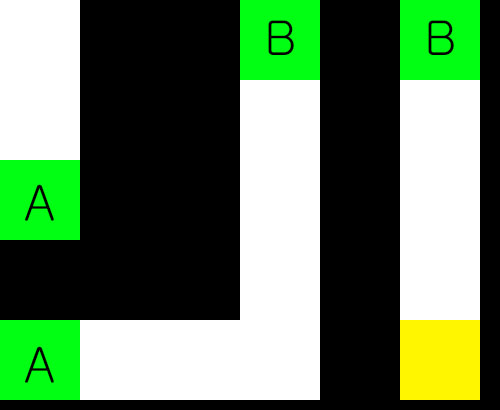
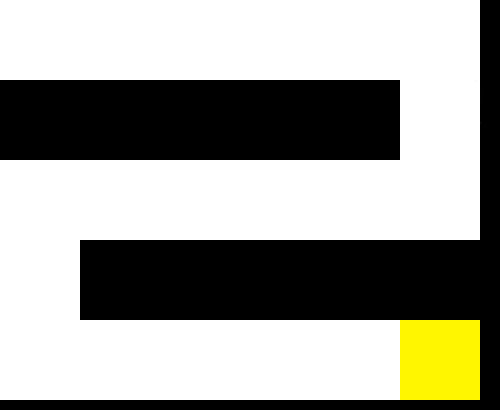
Add map function and map file

diff --git a/SQW.py b/SQW.py
@@ -4,11 +4,12 @@ import Action
 import Map
 pg.init()
 i = 0
+j = 0
 point = 80
 
 
 def run_execution_list():
-    global i
+    global i, j
     for choice in Action.execution_list:
         if choice == "go_straight":
             if Action.status_list[i] == "R":
@@ -38,18 +39,24 @@ def run_execution_list():
             elif i == 0:
                 i = 3
         elif choice == "action":
-            if Map.current_x == 20 and Map.current_y == 185:
-                Map.current_y += 160
-            elif Map.current_x == 260 and Map.current_y == 25:
-                Map.current_x += 160
-            elif Map.current_x == 420 and Map.current_y == 345:
-                print("Clear!")
-    time.sleep(0.5)
-    pg.display.flip()
+            if j == 0:
+                pass
+            if j == 1:
+                if Map.current_x == 20 and Map.current_y == 185:
+                    Map.current_y += 160
+                elif Map.current_x == 260 and Map.current_y == 25:
+                    Map.current_x += 160
+                elif Map.current_x == 420 and Map.current_y == 345:
+                    print("Clear!")
+                    j += 1
+                    i = 0
+                    Map.current_x = 20
+                    Map.current_y = 25
+            elif j == 2:
+                pass
 
 
 def __main__():
-    clock = pg.time.Clock()
     finished = False
     while not finished:
         for event in pg.event.get():
@@ -94,7 +101,7 @@ def __main__():
                             print("Quit")
                             finished = True
         Map.ourScreen.fill((0, 0, 0))
-        Map.ourScreen.blit(Map.map1, (20, 25))
+        Map.ourScreen.blit(Map.map_list[j], (20, 25))
         print(Action.status_list[i])
         print(Action.execution_list)
         pg.draw.rect(Map.ourScreen, (0, 255, 0), pg.Rect(540, 20, 240, 190))  # button part
@@ -109,7 +116,6 @@ def __main__():
         pg.draw.rect(Map.ourScreen, (0, 255, 255), pg.Rect(540, 230, 240, 200))  # function part
         Map.ourScreen.blit(Action.arrow_status[i], (Map.current_x, Map.current_y))  # this line
         pg.display.flip()
-        clock.tick(60)
 
 
 if __name__ == '__main__':
